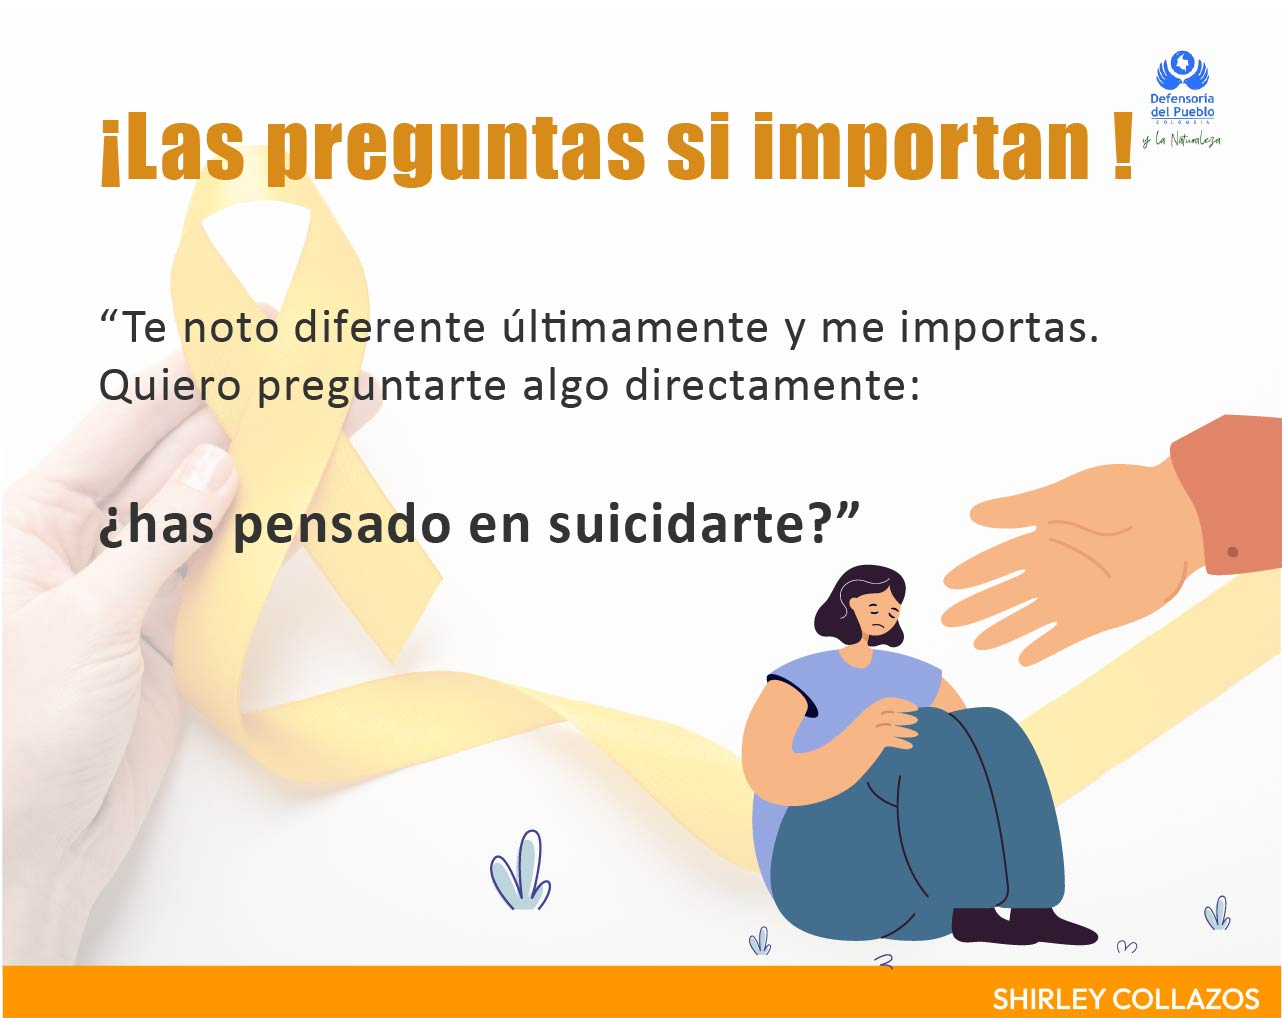
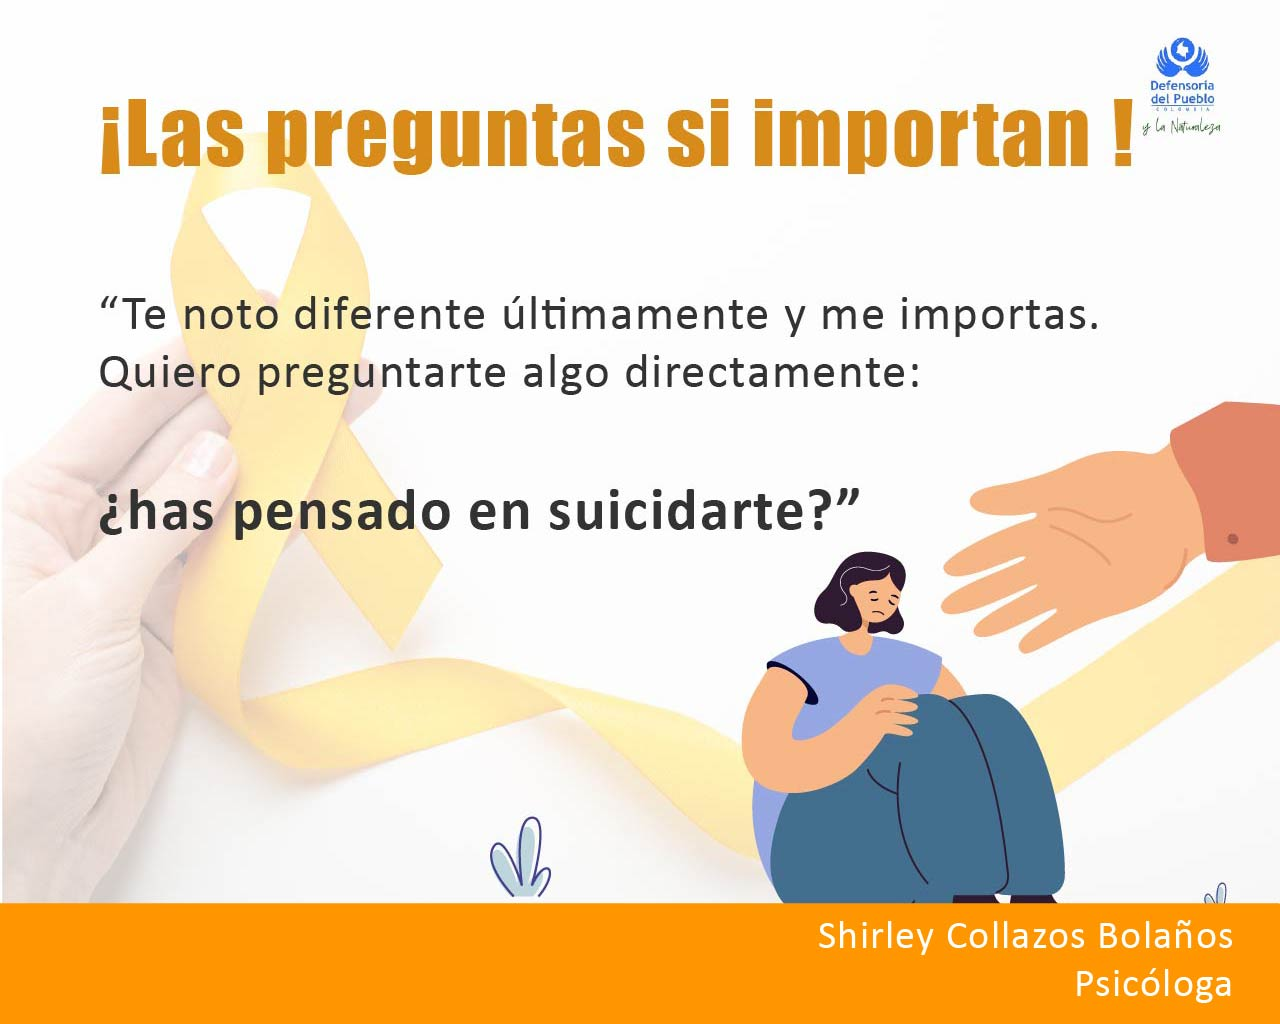
Update slide images (v3.0.1)

diff --git a/index.html b/index.html
@@ -373,7 +373,7 @@
 <body>
 
   <div id="viewer"></div>
-  <div id="version">v3.0.0</div>
+  <div id="version">v3.0.1</div>
   <div id="counter"></div>
   <div id="nav">
     <button id="prev-btn" class="nav-btn" title="Anterior">‹</button>

diff --git a/CHANGELOG.md b/CHANGELOG.md
@@ -1,5 +1,8 @@
 # Registro de versiones
 
+## v3.0.1 — 2026-09-08
+- Actualización de contenido: imágenes 1, 3-8, 10-17, 19 y 20.
+
 ## v3.0.0 — 2026-09-08
 - Título "INTERACTUEMOS" (mismo estilo que la diapositiva 9) arriba del quiz "Mito o Realidad".
 
